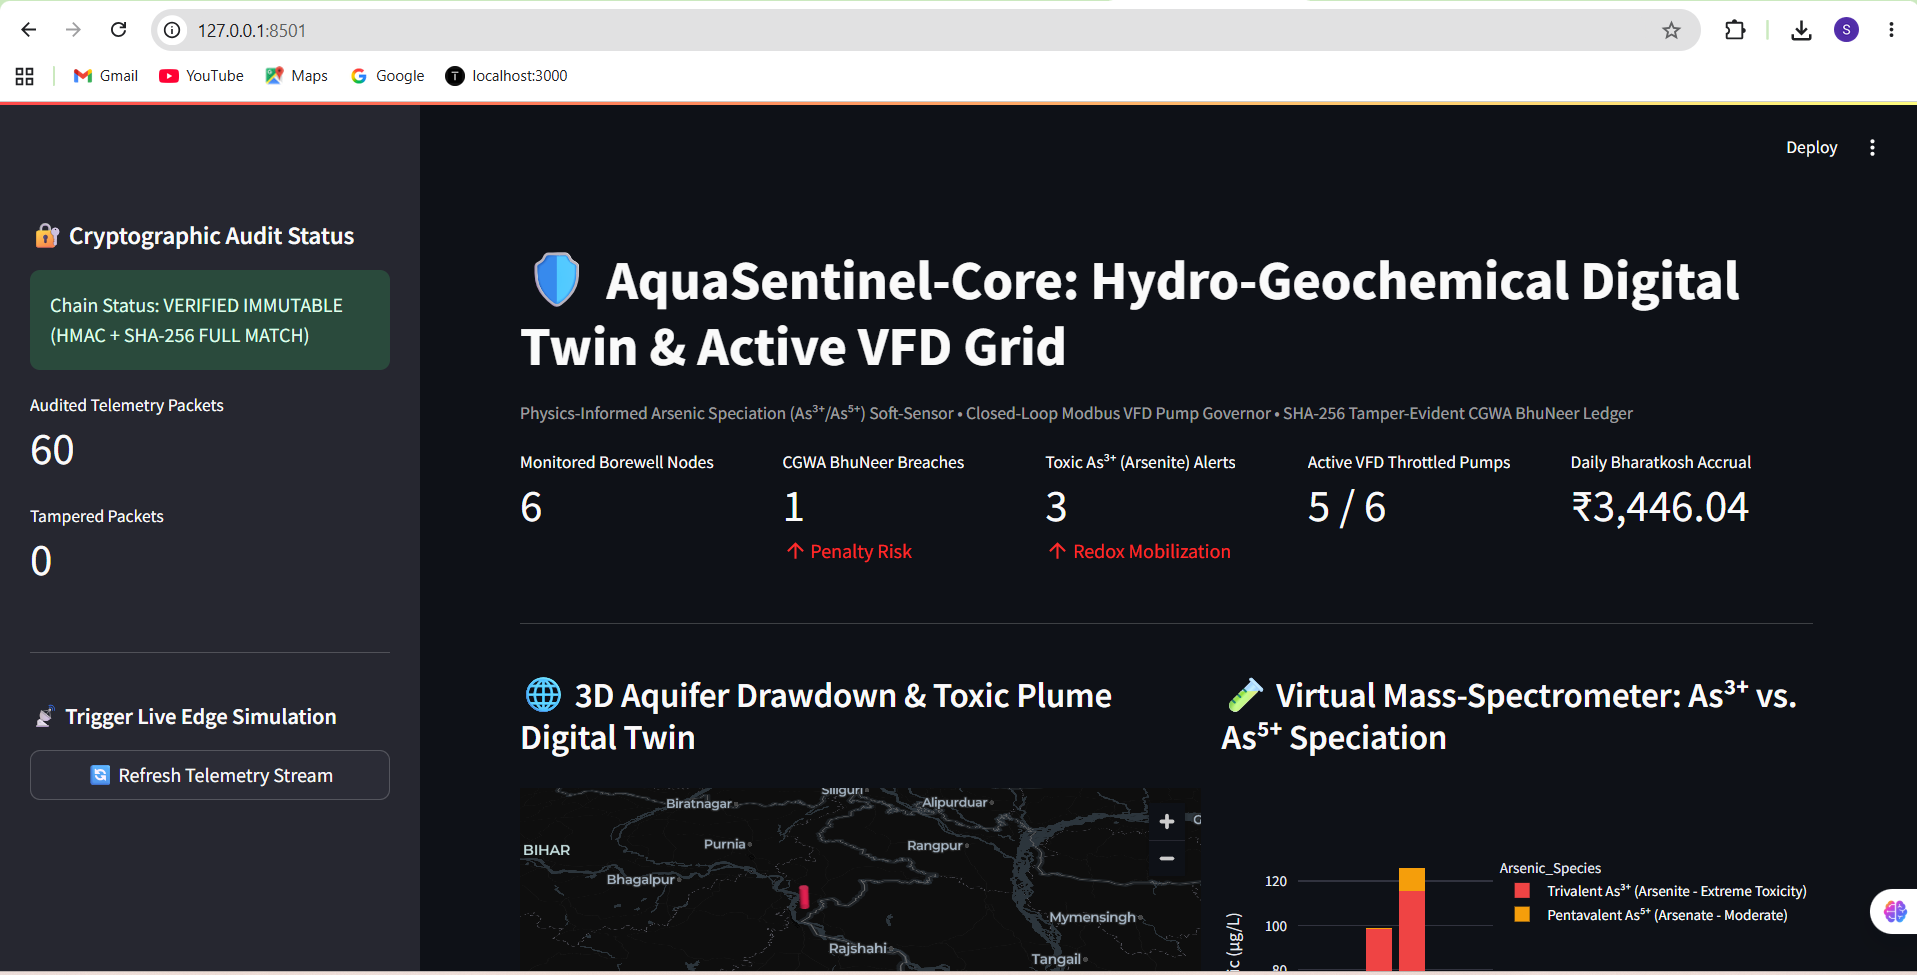
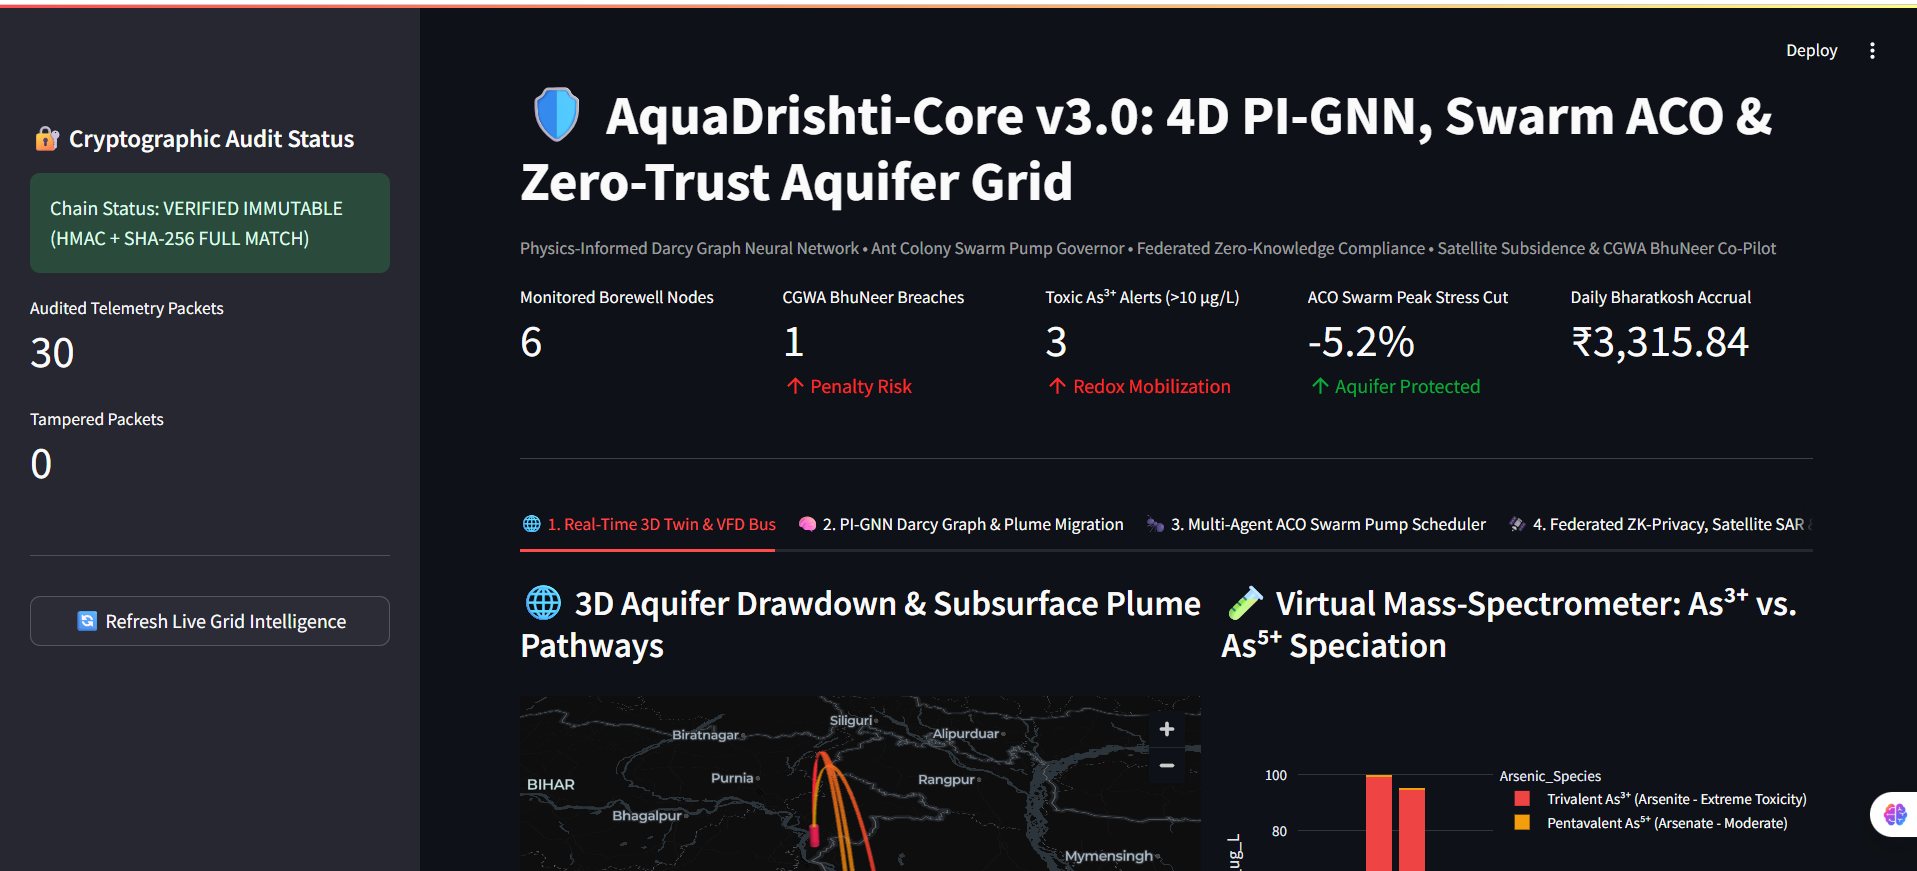
docs: add live 4D dashboard and VFD command bus screenshots to README

diff --git a/README.md b/README.md
@@ -1,8 +1,88 @@
+<div align="center">
+
+# 🛡 AquaSentinel-Core v3.0
+### Autonomous Hydro-Geochemical Digital Twin & CGWA BhuNeer Compliance Grid
+
+[![Python 3.11](https://img.shields.io/badge/Python-3.11-3776AB?style=for-the-badge&logo=python&logoColor=white)](https://python.org)
+[![FastAPI](https://img.shields.io/badge/FastAPI-005571?style=for-the-badge&logo=fastapi)](https://fastapi.tiangolo.com/)
+[![SQLite WAL](https://img.shields.io/badge/SQLite_WAL-003B57?style=for-the-badge&logo=sqlite&logoColor=white)](https://sqlite.org)
+[![NetworkX](https://img.shields.io/badge/NetworkX_PI--GNN-005C8A?style=for-the-badge&logo=scipy&logoColor=white)](https://networkx.org/)
+[![Scikit-Learn](https://img.shields.io/badge/Isolation_Forest-F7931E?style=for-the-badge&logo=scikit-learn&logoColor=white)](https://scikit-learn.org/)
+[![Llama-3.3-70B](https://img.shields.io/badge/Groq_Llama--3.3--70B-F55036?style=for-the-badge&logo=meta&logoColor=white)](https://groq.com)
+
+[![Streamlit](https://img.shields.io/badge/Streamlit_4D-FF4B4B?style=for-the-badge&logo=streamlit&logoColor=white)](https://streamlit.io)
+[![Deck.gl](https://img.shields.io/badge/PyDeck_WebGL-000000?style=for-the-badge&logo=uber&logoColor=white)](https://deck.gl)
+[![Plotly](https://img.shields.io/badge/Plotly_Speciation-3F4F75?style=for-the-badge&logo=plotly&logoColor=white)](https://plotly.com)
+[![Modbus](https://img.shields.io/badge/Modbus_RTU_0x06-003466?style=for-the-badge&logo=siemens&logoColor=white)](#)
+[![SHA-256](https://img.shields.io/badge/SHA--256_ZK--Proofs-232F3E?style=for-the-badge&logo=amazonwebservices&logoColor=white)](#)
+
+*Physics-Informed Darcy Graph Neural Networks • Ant Colony Swarm Pump Governors • Federated Zero-Knowledge Compliance • Satellite Subsidence Twin*
+
+</div>
+
+---
+
 # 🛡 AquaDrishti-Core v3.0: 4D PI-GNN, Swarm ACO & Zero-Trust Aquifer Grid
 
-**AquaSentinel-Core** is an industrial-grade B2B/B2G Cyber-Physical Aquifer Intelligence platform. It upgrades reactive groundwater monitoring into an autonomous, decentralized Swarm Grid—engineered to halt **drawdown-induced Arsenic ($As^{3+}$) contamination**, prevent **regional aquifer collapse**, and enforce **cryptographic zero-trust regulatory compliance**.
+**AquaDrishti-Core** is an industrial-grade B2B/B2G Cyber-Physical Aquifer Intelligence platform. It upgrades reactive groundwater monitoring into an autonomous, decentralized Swarm Grid—engineered to halt **drawdown-induced Arsenic ($As^{3+}$) contamination**, prevent **regional aquifer collapse**, and enforce **cryptographic zero-trust regulatory compliance**.
 
 ![AquaDrishti-Core v3.0 Command Center](assets/dashboard-view.png)
+
+<p align="center">
+  <img src="assets/dashboard-view.png" alt="AquaSentinel-Core v3.0 Command Center" width="100%">
+</p>
+
+## 🧠 System Architecture & Cyber-Physical Data Flow
+
+The following architecture defines how sub-millisecond edge telemetry is cryptographically sealed, transformed into a spatial-temporal graph, optimized by swarm intelligence, and executed as physical hardware state-changes.
+
+```mermaid
+flowchart TB
+    classDef edge fill:#0f172a,stroke:#334155,stroke-width:2px,color:#f8fafc
+    classDef api fill:#1e1b4b,stroke:#4338ca,stroke-width:2px,color:#e0e7ff
+    classDef core fill:#064e3b,stroke:#059669,stroke-width:2px,color:#ecfdf5
+    classDef hardware fill:#7f1d1d,stroke:#dc2626,stroke-width:2px,color:#fef2f2
+    classDef frontend fill:#451a03,stroke:#d97706,stroke-width:2px,color:#fef3c7
+
+    subgraph Edge["🌐 Edge IoT & Hardware Layer (RS485)"]
+        Sensors["🎛 Piezometer, pH & ORP Sensors"]
+        Sim["💻 Edge Python Simulator"]
+        Sensors -- Raw mA/mV --> Sim
+        Sim -- "Sign Payload (HMAC-SHA256)" --> Auth[Edge Auth Buffer]
+    end
+
+    subgraph Gateway["🛡 FastAPI Zero-Trust Gateway"]
+        Auth -- "POST /api/v1/telemetry" --> API((REST Ingress))
+        API -- "1. Validate Nonce" --> Replay[Anti-Replay Filter]
+        Replay -- "2. Hash Chain" --> SQLite[(SQLite WAL SHA-256 Ledger)]
+    end
+
+    subgraph Intelligence["🧠 AquaSentinel v3.0 Intelligence Grid"]
+        SQLite --> PIGNN["🔮 PI-GNN Darcy Propagator\n(NetworkX Spatial Plumes)"]
+        SQLite --> Swarm["🐜 ACO Swarm Scheduler\n(Peak Stress Flattening)"]
+        SQLite --> FedZK["🔒 FedAvg + ZK Range Proofs\n(Differential Privacy ε=1.2)"]
+        SQLite --> Copilot["🛰 Macro Subsidence Twin\n& Groq Llama-3.3 Co-Pilot"]
+    end
+
+    subgraph Control["⚙ Closed-Loop SCADA Execution"]
+        Swarm --> VFD_Calc["Dynamically Adjust Hz\n(20.0 - 46.5 Hz)"]
+        VFD_Calc -- "Modbus-RTU (0x06 Hex Frame)" --> Pump["🛑 Variable Frequency Drive (VFD)"]
+        Pump -. "Hydraulic Feedback" .-> Sensors
+    end
+
+    subgraph UI["💻 Streamlit 4D Command Center"]
+        PIGNN --> PyDeck["PyDeck 3D WebGL Map"]
+        Swarm --> Plotly["Plotly Quota Allocation"]
+        FedZK --> ZK_Dash["Zero-Knowledge UI"]
+        Copilot --> PDF["Form-V Compliance Brief"]
+    end
+
+    class Sensors,Sim,Auth,Pump edge;
+    class API,Replay,SQLite api;
+    class PIGNN,Swarm,FedZK,Copilot,VFD_Calc core;
+    class Pump hardware;
+    class PyDeck,Plotly,ZK_Dash,PDF frontend;
+```
 
 ## 🔥 The 4 Advanced Engineering Pillars
 
